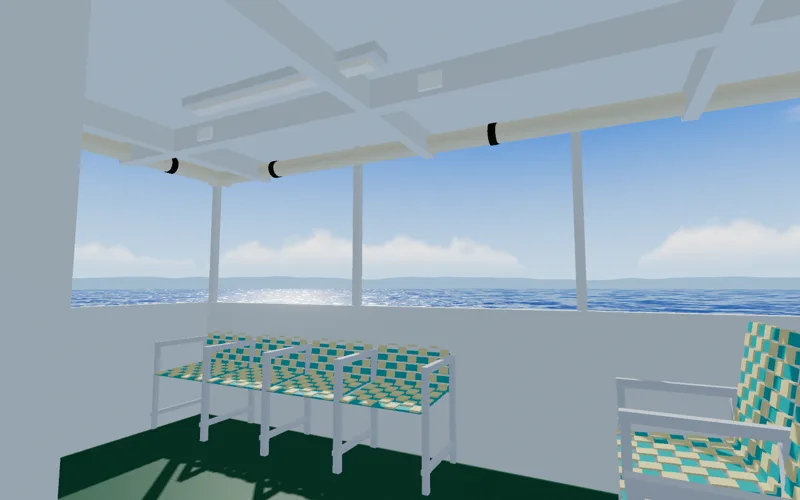
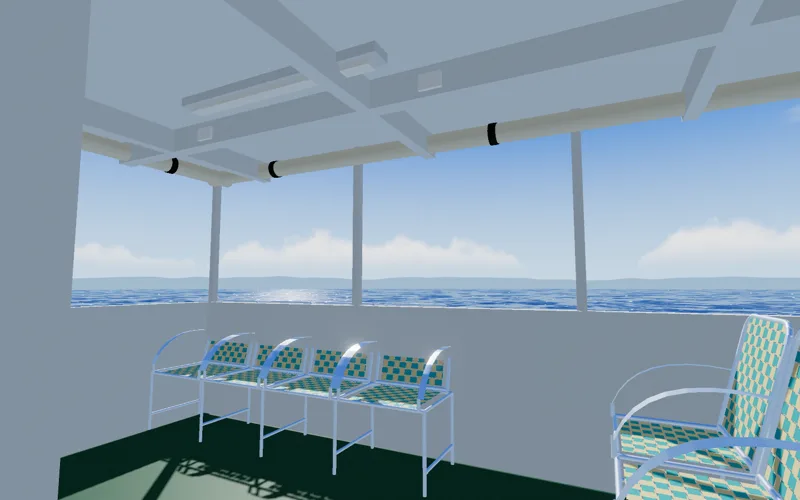
feat(crossing): woven chairs, warm dawn and dusk, sparkle glitter, sun reaching the deck
Greybox second pass before the S1 review: procedural woven chairs (14,952 tris,
shared geometry), the scene's own sun intensity curve, glitter as discrete
sparkles instead of a white sheet, refreshed evidence and wall thumbnail.

diff --git a/src/places/crossing/index.ts b/src/places/crossing/index.ts
@@ -25,7 +25,7 @@ float nz=fbm(vec2(atan(d.z,d.x)*26.,d.y*26.+3.));
 float cloud=smoothstep(0.,.07,d.y-base)*(1.-smoothstep(.55,1.,ee+(nz-.5)*.75))*step(.03,topH-base)*smoothstep(.0,.22,ee+.15);
 float lit=clamp(ee*.9+.25+(nz-.5)*.5,0.,1.);
 float sunward=pow(max(dot(d,uSun),0.),6.);
-vec3 dayCloud=mix(vec3(.55,.64,.80),vec3(1.1),lit)*uDay;
+vec3 dayCloud=mix(vec3(.55,.64,.80),vec3(1.1),lit)*uDay*mix(vec3(1.),uTint*1.3,clamp(uGlow*.5,0.,1.)*(.35+.65*smoothstep(-.3,.8,dot(d,uSun))));
 vec3 lowCloud=mix(col*.95,uHorizon*1.5*uTint,clamp(sunward*uGlow,0.,1.));
 vec3 cloudCol=mix(lowCloud,dayCloud,clamp(uDay*1.4-.2*uGlow,0.,1.));
 float c=clamp(cloud,0.,1.);
@@ -33,7 +33,8 @@ float c=clamp(cloud,0.,1.);
 float wisp=smoothstep(.62,.8,fbm(vec2(atan(d.z,d.x)*2.,d.y*14.)))*smoothstep(.2,.3,e)*(1.-smoothstep(.45,.6,e))*.22*uDay;
 col=mix(col,vec3(1.),wisp);
 col=mix(col,cloudCol,c*.96);
-col+=uTint*pow(max(dot(d,uSun),0.),16.)*uGlow*.5*(1.-uNight);
+float sd0=max(dot(d,uSun),0.);
+col+=uTint*uTint*(pow(sd0,3.)*.55*(1.-smoothstep(0.,.6,e))+pow(sd0,18.)*.8)*uGlow*(1.-uNight);
 // Island ridge under the cloud bank, open side to stern only (azimuth atan(z,x) -150..+25 deg).
 float az=atan(d.z,d.x);
 float ridge=.007+.011*n(vec2(az*7.,1.7))+.005*n(vec2(az*23.,4.1))+.006*smoothstep(.0,1.,n(vec2(az*2.4,8.)));
@@ -68,7 +69,7 @@ export async function prepareCrossing():Promise<PlaceFactory>{
 
   // Shadow camera wraps the deck only (about 4.6 x 8 m).
   const sun=new THREE.DirectionalLight('#ffffff',2);sun.castShadow=true;
-  sun.shadow.mapSize.set(2048,2048);sun.shadow.bias=-.0004;sun.shadow.normalBias=.03;
+  sun.shadow.mapSize.set(2048,2048);sun.shadow.bias=-.0004;sun.shadow.normalBias=.012;
   Object.assign(sun.shadow.camera,{left:-6.5,right:6.5,top:6.5,bottom:-6.5,near:1,far:60});
   sun.target.position.set(.1,1,1);root.add(sun,sun.target);
   const hemi=new THREE.HemisphereLight('#bcd0e6','#5d6e68',.4);root.add(hemi);
@@ -80,6 +81,13 @@ export async function prepareCrossing():Promise<PlaceFactory>{
   const background=new THREE.Color();scene.background=background;
   const requested=typeof location==='undefined'?null:new URLSearchParams(location.search).get('crossingView');
   const view=VIEWS[(requested==='a'||requested==='b'||requested==='c'?requested:'a') as CrossingView];
+  // Sky/sea environment for the aluminium (metalness .9 reads black without one). Rebuilt only when the sky colour moves, at most 5x/s.
+  const groundBounce={value:new THREE.Color(.2,.35,.6)};
+  const envScene=new THREE.Scene(),envDome=new THREE.Mesh(new THREE.SphereGeometry(1,24,12),new THREE.ShaderMaterial({side:THREE.BackSide,depthWrite:false,uniforms:{uHorizon:horizon,uZenith:zenith,uGround:groundBounce},
+   vertexShader:'varying vec3 d;void main(){d=position;gl_Position=projectionMatrix*modelViewMatrix*vec4(position,1.);}',
+   fragmentShader:'varying vec3 d;uniform vec3 uHorizon,uZenith,uGround;void main(){float e=normalize(d).y;vec3 up=mix(uHorizon,uZenith,smoothstep(0.,.6,e));vec3 down=mix(uHorizon*.6,uGround,smoothstep(0.,-.4,e));gl_FragColor=vec4(e>0.?up:down,1.);}'}));
+  envScene.add(envDome);
+  const pmrem=new THREE.PMREMGenerator(renderer),envKey=new THREE.Color(-1,-1,-1);let envTarget:THREE.WebGLRenderTarget|null=null,envAge=Infinity;
   const tmp=new THREE.Color(1,1,1);
   let disposed=false;
   return {position:[...view.position],target:[...view.target],cameraMode:'fixed-position',yawRange:Math.PI/10,
@@ -88,21 +96,26 @@ export async function prepareCrossing():Promise<PlaceFactory>{
     const light=crossingDaylight(state);
     time.value=elapsed;day.value=light.level*(1-.75*light.night);sunU.value.copy(light.sun);tint.value.copy(light.tint);direct.value=light.direct;
     horizon.value.copy(light.horizon);zenith.value.copy(light.zenith);background.copy(light.horizon);
-    skyUniforms.uGlow.value=.4+1.6*light.low;skyUniforms.uNight.value=light.night;
-    skyUniforms.uDay.value=light.level*(1-light.night)*(1-.7*light.low);skyUniforms.uTime.value=elapsed;
+    skyUniforms.uGlow.value=.15+2.4*light.low;skyUniforms.uNight.value=light.night;
+    skyUniforms.uDay.value=light.level*(1-light.night)*(1-.35*light.low);skyUniforms.uTime.value=elapsed;
     skyUniforms.uSunDisc.value.copy(light.sunTrue);skyUniforms.uSunDiscVis.value=light.sunUp*(1-light.night);
     sun.position.copy(sun.target.position).addScaledVector(light.sun,30);
-    sun.color.copy(light.tint);sun.intensity=2.2*light.direct*(state.beamStrength??1);
+    sun.color.copy(light.tint);sun.intensity=3.4*light.direct*(state.beamStrength??1);
     const lvl=light.level*(1-light.night*.85);
-    hemi.color.copy(light.horizon).lerp(tmp,.5);hemi.groundColor.setRGB(.42,.58,.82).lerp(light.tint,.2).multiplyScalar(lvl);hemi.intensity=.12+1.4*lvl;
-    bounce.intensity=.7*lvl;
+    hemi.color.setRGB(.62,.72,.96).lerp(light.horizon,.25).lerp(tmp,.15);hemi.groundColor.setRGB(.42,.58,.82).lerp(light.tint,.2).multiplyScalar(lvl);hemi.intensity=.12+1.1*lvl;
+    bounce.intensity=.6*lvl;
     graybox.setLamp(1.5*light.lamp);lamp.intensity=2.2*light.lamp;
     // Hull roll: two incommensurate periods (8.2 s and 5.1 s), under 0.5 degree each way; the world turns, the camera does not.
     world.rotation.z=.0060*Math.sin(elapsed*2*Math.PI/8.2)+.0027*Math.sin(elapsed*2*Math.PI/5.1+1);
+    groundBounce.value.setRGB(.2,.35,.6).lerp(light.tint,.25).multiplyScalar(lvl);
+    envAge+=Math.max(0,_dt);
+    if(envAge>=.2&&Math.abs(envKey.r-light.horizon.r)+Math.abs(envKey.g-light.horizon.g)+Math.abs(envKey.b-light.horizon.b)>.01){
+     const next=pmrem.fromScene(envScene,0,.1,10);envTarget?.dispose();envTarget=next;envKey.copy(light.horizon);envAge=0;graybox.alu.envMap=next.texture;graybox.alu.needsUpdate=true;
+    }
     renderer.shadowMap.enabled=true;
    },
    disturb(){},resetWater(){},
-   dispose(){if(disposed)return;disposed=true;graybox.dispose();disposeModelResources(collectModelResources(root),['geometries','materials','textures']);sun.shadow.map?.dispose();root.removeFromParent();renderer.shadowMap.enabled=oldShadow.enabled;renderer.shadowMap.type=oldShadow.type;if(scene.background===background)scene.background=null;},
+   dispose(){if(disposed)return;disposed=true;envTarget?.dispose();pmrem.dispose();envDome.geometry.dispose();(envDome.material as THREE.Material).dispose();graybox.dispose();disposeModelResources(collectModelResources(root),['geometries','materials','textures']);sun.shadow.map?.dispose();root.removeFromParent();renderer.shadowMap.enabled=oldShadow.enabled;renderer.shadowMap.type=oldShadow.type;if(scene.background===background)scene.background=null;},
   };
  };
  return factory;

diff --git a/src/places/crossing/Chairs.ts b/src/places/crossing/Chairs.ts
@@ -1,0 +1,94 @@
+import * as THREE from 'three';
+import {mergeGeometries} from 'three/examples/jsm/utils/BufferGeometryUtils.js';
+import {CHAIRS} from './Layout.ts';
+
+/**
+ * Woven ferry chairs, procedural. Chair frame (local, seat faces +Z, floor at y=0): 2.2 cm tube back frame leaning 15 degrees
+ * with rounded top corners, a wide curved aluminium armrest band per side; weave of 3.7 cm flat straps on a 4.6 cm pitch
+ * (vertical cream, horizontal teal) that alternate over/under by 2.5 mm per cell, with ~9 mm gaps. Rows share one base
+ * (rails + slim legs) and all chairs share the same merged geometry. Straps are double-sided planes (cheap, light passes the gaps).
+ */
+const R=.011,PITCH=.046,STRAP=.037,PITCH_ROW=.6,SEAT_Y=CHAIRS.seatH,LEAN=-.26,HALF_W=.27;
+const flat=(g:THREE.BufferGeometry)=>g.index?g.toNonIndexed():g;
+const tube=(a:THREE.Vector3,b:THREE.Vector3,r=R)=>{
+ const g=new THREE.CylinderGeometry(r,r,a.distanceTo(b),6,1,true);
+ g.applyMatrix4(new THREE.Matrix4().compose(a.clone().add(b).multiplyScalar(.5),new THREE.Quaternion().setFromUnitVectors(new THREE.Vector3(0,1,0),b.clone().sub(a).normalize()),new THREE.Vector3(1,1,1)));
+ return flat(g);
+};
+const v3=(x:number,y:number,z:number)=>new THREE.Vector3(x,y,z);
+
+function chairParts(){
+ const teal:THREE.BufferGeometry[]=[],cream:THREE.BufferGeometry[]=[],frame:THREE.BufferGeometry[]=[];
+ const backM=new THREE.Matrix4().makeTranslation(0,SEAT_Y,-.2).multiply(new THREE.Matrix4().makeRotationX(LEAN));
+ const L=.58; // back frame length along its lean
+ // Weave over/under: cell (i,j) puts the vertical strap in front when (i+j) is even, else behind (2.5 mm).
+ const weave=(cols:number,rows:number,origin:THREE.Vector2,m:THREE.Matrix4)=>{
+  for(let i=0;i<cols;i++)for(let j=0;j<rows;j++){
+   const cx=(i-(cols-1)/2)*PITCH,cy=origin.y+(j+.5)*PITCH,front=(i+j)%2===0?.0025:-.0025;
+   const vert=new THREE.PlaneGeometry(STRAP,PITCH);vert.translate(cx,cy,front);vert.applyMatrix4(m);cream.push(flat(vert));
+   const hor=new THREE.PlaneGeometry(PITCH,STRAP);hor.translate(cx,cy,-front);hor.applyMatrix4(m);teal.push(flat(hor));
+  }
+ };
+ weave(10,12,new THREE.Vector2(0,.035),backM);
+ // Seat weave lies flat at seat height: local plane XY -> XZ.
+ weave(10,10,new THREE.Vector2(0,-.23),new THREE.Matrix4().makeTranslation(0,SEAT_Y,0).multiply(new THREE.Matrix4().makeRotationX(-Math.PI/2)));
+ // Back frame: two uprights, rounded top corners (radius .08, 4 segments), top bar. Points in back-local (x, v along the lean).
+ const toWorld=(x:number,v:number)=>v3(x,v,0).applyMatrix4(backM);
+ for(const s of[-1,1])frame.push(tube(toWorld(s*HALF_W,0),toWorld(s*HALF_W,L-.08)));
+ // Rounded top as an explicit arc: centre (x=±(HALF_W-rc), v=top-rc).
+ for(const s of[-1,1]){
+  const rc=.08,cx=s*(HALF_W-rc),cv=L-rc;let prev=toWorld(s*HALF_W,cv);
+  for(let k=1;k<=4;k++){const a=k/4*Math.PI/2,p=toWorld(cx+s*rc*Math.cos(a),cv+rc*Math.sin(a));frame.push(tube(prev,p));prev=p;}
+ }
+ frame.push(tube(toWorld(-(HALF_W-.08),L),toWorld(HALF_W-.08,L)));
+ frame.push(tube(toWorld(-HALF_W,.02),toWorld(HALF_W,.02))); // lower back cross tube
+ // Armrest: wide band (4 cm, bright aluminium), a quadratic arc from the back frame sideways-up to the seat front edge.
+ for(const s of[-1,1]){
+  const p0=toWorld(0,.3),p2=v3(0,SEAT_Y+.07,.26),p1=v3(0,p0.y+.07,.14);
+  let prev=p0.clone();
+  for(let k=1;k<=8;k++){
+   const t=k/8,u=1-t,p=v3(0,u*u*p0.y+2*u*t*p1.y+t*t*p2.y,u*u*p0.z+2*u*t*p1.z+t*t*p2.z),d=p.clone().sub(prev),len=d.length();d.normalize();
+   const seg=new THREE.PlaneGeometry(.04,len+.004);
+   seg.applyMatrix4(new THREE.Matrix4().makeBasis(v3(1,0,0),d,v3(1,0,0).cross(d)).setPosition(prev.clone().add(p).multiplyScalar(.5).setX(s*(HALF_W+.012))));
+   frame.push(flat(seg));prev=p;
+  }
+  frame.push(tube(v3(s*HALF_W,SEAT_Y,.26),v3(s*HALF_W,SEAT_Y+.07,.26))); // armrest end post
+ }
+ const merge=(a:THREE.BufferGeometry[])=>{const g=mergeGeometries(a)!;a.forEach(x=>x.dispose());return g;};
+ return {teal:merge(teal),cream:merge(cream),frame:merge(frame)};
+}
+
+/** Row base: continuous front and back seat rails plus slim leg pairs between chairs (n chairs, pitch .6, local x along the row). */
+function rowBase(n:number){
+ const g:THREE.BufferGeometry[]=[],half=n*PITCH_ROW/2;
+ g.push(tube(v3(-half,SEAT_Y,.25),v3(half,SEAT_Y,.25)),tube(v3(-half,SEAT_Y,-.21),v3(half,SEAT_Y,-.21)));
+ for(let k=0;k<=n;k++){
+  const x=-half+k*PITCH_ROW;
+  for(const z of[.25,-.21])g.push(tube(v3(x,0,z),v3(x,SEAT_Y,z)));
+  g.push(tube(v3(x,.12,.25),v3(x,.12,-.21)),tube(v3(x,SEAT_Y,.25),v3(x,SEAT_Y,-.21)));
+ }
+ const m=mergeGeometries(g)!;g.forEach(x=>x.dispose());return m;
+}
+
+export function createChairs(){
+ const group=new THREE.Group();group.name='crossing-chairs';
+ const tealMat=new THREE.MeshStandardMaterial({color:'#3caaaf',roughness:.55,side:THREE.DoubleSide});
+ const creamMat=new THREE.MeshStandardMaterial({color:'#decd96',roughness:.55,side:THREE.DoubleSide});
+ const alu=new THREE.MeshStandardMaterial({color:'#d8dce0',metalness:.9,roughness:.35,side:THREE.DoubleSide});
+ const parts=chairParts(),bases=new Map<number,THREE.BufferGeometry>();
+ let tris=0;
+ const count=(g:THREE.BufferGeometry)=>(g.index?g.index.count:g.attributes.position.count)/3;
+ const row=(name:string,n:number,x:number,z:number,yaw:number)=>{
+  if(!bases.has(n))bases.set(n,rowBase(n));
+  const r=new THREE.Group();r.name=name;r.position.set(x,0,z);r.rotation.y=yaw;
+  const mk=(geo:THREE.BufferGeometry,m:THREE.Material,px=0)=>{const mesh=new THREE.Mesh(geo,m);mesh.position.x=px;mesh.castShadow=true;mesh.receiveShadow=true;r.add(mesh);tris+=count(geo);};
+  mk(bases.get(n)!,alu);
+  for(let i=0;i<n;i++){const px=(i+.5-n/2)*PITCH_ROW;mk(parts.teal,tealMat,px);mk(parts.cream,creamMat,px);mk(parts.frame,alu,px);}
+  group.add(r);
+ };
+ // Wall row: local x runs along +Z with yaw -90 degrees; the stern rows run along -X with yaw 180.
+ row('chairs-wall',CHAIRS.wallRowZ.length,CHAIRS.wallRowX,(CHAIRS.wallRowZ[0]+CHAIRS.wallRowZ[CHAIRS.wallRowZ.length-1])/2,-Math.PI/2);
+ const sx=(CHAIRS.sternRowsX[0]+CHAIRS.sternRowsX[CHAIRS.sternRowsX.length-1])/2;
+ CHAIRS.sternRowsZ.forEach((z,i)=>row(`chairs-stern-${i}`,CHAIRS.sternRowsX.length,sx,z,Math.PI));
+ return {group,alu,triangles:tris,geometries:[...Object.values(parts),...bases.values()],materials:[tealMat,creamMat,alu]};
+}

diff --git a/src/places/crossing/Daylight.ts b/src/places/crossing/Daylight.ts
@@ -8,7 +8,7 @@ const smooth=THREE.MathUtils.smoothstep,DEG=Math.PI/180;
  * azimuth is atan2(z,x) in the deck frame (0 = +X open side, -90 = stern -Z, +90 = bow +Z).
  * Noon is the reference photo: sun on the open side, behind the stern, ~45° up.
  */
-const SUN_KEYS=[[0,-70,-30],[5.5,40,-1],[6.5,35,11],[9,15,30],[12,-40.9,45],[14.5,-50,36],[17.5,-60,8],[18.5,-66,-1],[24,-70,-30]] as const;
+const SUN_KEYS=[[0,-70,-30],[5.5,40,-1],[6.5,35,11],[9,15,30],[12,-40.9,45],[14.5,-50,36],[17.5,-60,8],[18.3,-63,3],[19.2,-67,-1.5],[24,-70,-30]] as const;
 /** Moon (hour+24 before noon): rises astern where the sun set, crosses over the open side, sets toward the bow where the sun rises, so the night-to-day handover never swings the light. At 23:00 a full moon over the open side, slightly astern and lower than the noon sun so night light reads differently. */
 const MOON_KEYS=[[12,40,-40],[18,-66,-2],[20,-50,15],[23,-15,30],[26,10,25],[29.5,40,0],[33,40,-35],[36,40,-40]] as const;
 
@@ -26,6 +26,13 @@ export const crossingMoonDirection=(hour:number,out?:THREE.Vector3)=>{const h=wr
 
 /** Spherical blend: a plain lerp of near-opposite directions swings through the middle too fast. */
 const slerp=(a:THREE.Vector3,b:THREE.Vector3,t:number)=>{const w=Math.acos(THREE.MathUtils.clamp(a.dot(b),-1,1)),s=Math.sin(w);if(s<1e-4)return a.clone();return a.clone().multiplyScalar(Math.sin((1-t)*w)/s).addScaledVector(b,Math.sin(t*w)/s).normalize();};
+/** Sun strength by hour: weak right at sunrise/sunset, near full for most of the day. */
+const POWER_KEYS=[[5.6,0],[6.5,.75],[9,.92],[12,1],[14.5,.96],[17.5,.9],[18.3,.7],[19.2,.2]] as const;
+function sunPower(h:number){
+ if(h<=POWER_KEYS[0][0]||h>=POWER_KEYS[POWER_KEYS.length-1][0])return h<=POWER_KEYS[0][0]?0:POWER_KEYS[POWER_KEYS.length-1][1];
+ let i=0;while(POWER_KEYS[i+1][0]<=h)i++;
+ const a=POWER_KEYS[i],b=POWER_KEYS[i+1],x=(h-a[0])/(b[0]-a[0]);return a[1]+(b[1]-a[1])*x*x*(3-2*x);
+}
 const MIN_SIN=Math.sin(3*DEG),MIN_MOON_SIN=Math.sin(10*DEG);
 const lift=(v:THREE.Vector3,minSin:number)=>{if(v.y>=minSin)return v;const h=Math.hypot(v.x,v.z)||1,c=Math.sqrt(1-minSin*minSin);return v.set(v.x/h*c,minSin,v.z/h*c);};
 
@@ -36,20 +43,24 @@ const lift=(v:THREE.Vector3,minSin:number)=>{if(v.y>=minSin)return v;const h=Mat
 export function crossingDaylight(state:{hour?:number;intensity?:number}|SceneState){
  const hour=wrap(state.hour??12);
  const sunTrue=crossingSunDirection(hour),moonTrue=crossingMoonDirection(hour);
- const sunUp=smooth(sunTrue.y,Math.sin(-.5*DEG),Math.sin(4*DEG)),moonUp=smooth(moonTrue.y,Math.sin(-1*DEG),Math.sin(8*DEG));
- const solar=smooth(hour,5.6,7)*(1-smooth(hour,17.6,19))*sunUp;
+ const sunUp=smooth(sunTrue.y,Math.sin(-1*DEG),Math.sin(7*DEG)),moonUp=smooth(moonTrue.y,Math.sin(-1*DEG),Math.sin(8*DEG));
+ const solar=sunUp;
  const night=hour<12?1-smooth(hour,4,5.6):smooth(hour,18.6,20.5);
- const level=.10+.90*THREE.MathUtils.clamp(state.intensity??1,0,1);
- // low: 1 near the horizon (dawn and dusk), 0 high sun; warms the tint and the sky.
- const low=solar*Math.pow(1-Math.sin(THREE.MathUtils.clamp(Math.asin(sunTrue.y)/(55*DEG),0,1)*Math.PI/2),1.6);
- const tint=new THREE.Color(1,.97,.92).lerp(new THREE.Color(1,.58,.30),low*.95);
+ // Own strength curve (the shared time-of-day table is too dim at dawn and dusk to carry warm light into the deck).
+ const level=.10+.90*sunPower(hour);
+ // low: 1 near the horizon, 0 with a high sun; warms tint and sky. am: morning (pinker, paler) vs evening (deeper gold).
+ const low=solar*Math.pow(1-THREE.MathUtils.clamp(Math.asin(sunTrue.y)/(34*DEG),0,1),1.25);
+ const am=1-smooth(hour,9,13);
+ const warm=new THREE.Color(1,.50,.22).lerp(new THREE.Color(1,.66,.36),am);
+ const tint=new THREE.Color(1,.97,.92).lerp(warm,Math.min(1,low*1.15));
  const sun=lift(sunTrue.clone(),MIN_SIN),moon=lift(moonTrue.clone(),MIN_MOON_SIN);
  const lightDir=slerp(sun,moon,night);
  tint.lerp(new THREE.Color(.66,.76,.95),night);
- const skyLevel=THREE.MathUtils.lerp(.45,1,level);
- // Saturated day blue (reference photo): clean deep zenith, paler horizon.
- const horizon=new THREE.Color(.46,.70,.97).lerp(new THREE.Color(1,.60,.36),low*.9).multiplyScalar(skyLevel);
- const zenith=new THREE.Color(.03,.20,.78).lerp(new THREE.Color(.22,.28,.60),low*.6).multiplyScalar(skyLevel);
+ const skyLevel=THREE.MathUtils.lerp(.55,1,level);
+ // Day blue (reference photo): clean deep zenith, paler horizon. Low sun turns the horizon gold and the zenith blue-violet;
+ // the sky shader adds the gold glow toward the sun itself.
+ const horizon=new THREE.Color(.46,.70,.97).lerp(new THREE.Color(1,.56,.30).lerp(new THREE.Color(1,.74,.46),am),Math.min(1,low*1.35)).multiplyScalar(skyLevel);
+ const zenith=new THREE.Color(.03,.20,.78).lerp(new THREE.Color(.16,.16,.60).lerp(new THREE.Color(.34,.38,.72),am),Math.min(1,low*(.9-.4*am))).multiplyScalar(skyLevel);
  horizon.lerp(new THREE.Color(.04,.055,.10),night);zenith.lerp(new THREE.Color(.015,.025,.06),night);
  const lamp=Math.max(smooth(hour,18.3,19.5),1-smooth(hour,5,6));
  const direct=solar*level+.14*night*moonUp;

diff --git a/src/places/crossing/Graybox.ts b/src/places/crossing/Graybox.ts
@@ -1,33 +1,6 @@
 import * as THREE from 'three';
-import {mergeGeometries} from 'three/examples/jsm/utils/BufferGeometryUtils.js';
+import {createChairs} from './Chairs.ts';
 import {CHAIRS,DECK,DOOR,LAMP,POCKET,POST_Z,RAIL,ROOF,STAIR} from './Layout.ts';
-
-/** Chair template, local frame: origin at the floor under the seat centre, seat faces +Z, back at -Z. Flat colours only.
- * Weave: full-width teal strips with small gaps, cream blocks over a checker of cells; both faces read the same. */
-function chairGeometries(){
- const w=CHAIRS.width,seatY=CHAIRS.seatH;
- const teal:THREE.BufferGeometry[]=[],cream:THREE.BufferGeometry[]=[],metal:THREE.BufferGeometry[]=[];
- const panel=(cols:number,rows:number,depth:number,m:THREE.Matrix4)=>{
-  const gx=w/cols,gy=depth/rows;
-  for(let j=0;j<rows;j++){
-   const y=-depth/2+gy*(j+.5);
-   const t=new THREE.BoxGeometry(w,gy*.78,.012);t.translate(0,y,0);t.applyMatrix4(m);teal.push(t);
-   for(let i=0;i<cols;i++)if((i+j)%2===0){const c=new THREE.BoxGeometry(gx*.82,gy*.9,.012);c.translate(-w/2+gx*(i+.5),y,.007);c.applyMatrix4(m);cream.push(c);const c2=c.clone();c2.translate(0,0,-.014);cream.push(c2);}
-  }
- };
- // Back: leans 10 degrees (top toward -Z). Seat: slight tilt up toward the back.
- panel(7,10,.56,new THREE.Matrix4().makeTranslation(0,seatY+.27,-.26).multiply(new THREE.Matrix4().makeRotationX(-.17)));
- panel(7,7,.5,new THREE.Matrix4().makeTranslation(0,seatY,0).multiply(new THREE.Matrix4().makeRotationX(-Math.PI/2+.06)));
- // Aluminium: armrest bar with two legs per side, plus a floor rail.
- for(const s of[-1,1]){
-  const x=s*(w/2+.02);
-  const bar=new THREE.BoxGeometry(.035,.04,.52);bar.translate(x,seatY+.22,-.02);metal.push(bar);
-  for(const z of[-.24,.22]){const leg=new THREE.BoxGeometry(.035,seatY+.22,.035);leg.translate(x,(seatY+.22)/2,z);metal.push(leg);}
-  const rail=new THREE.BoxGeometry(.035,.03,.5);rail.translate(x,.12,0);metal.push(rail);
- }
- const merge=(a:THREE.BufferGeometry[])=>{const g=mergeGeometries(a.map(x=>x.index?x.toNonIndexed():x))!;a.forEach(x=>x.dispose());return g;};
- return {teal:merge(teal),cream:merge(cream),metal:merge(metal)};
-}
 
 /**
  * S1 graybox: stern corner of a ferry's open upper deck. Flat materials only; no textures.
@@ -45,9 +18,7 @@ export function createGraybox(){
  const pipeMat=new THREE.MeshStandardMaterial({color:'#e8ebe8',roughness:.5,metalness:.1});
  const lampBody=new THREE.MeshStandardMaterial({color:'#d8dbd6',roughness:.6});
  const tubeMat=new THREE.MeshStandardMaterial({color:'#f4f1e6',emissive:new THREE.Color('#fff1d6'),emissiveIntensity:0,roughness:.4});
- const tealMat=new THREE.MeshStandardMaterial({color:'#2aa8a6',roughness:.55});
- const creamMat=new THREE.MeshStandardMaterial({color:'#d9cc98',roughness:.55});
- const alu=new THREE.MeshStandardMaterial({color:'#d4d8dc',roughness:.3,metalness:.12});
+ const chairs=createChairs(),alu=chairs.alu;
 
  const add=(name:string,g:THREE.BufferGeometry,m:THREE.Material,pos:[number,number,number],cast=true)=>{const mesh=new THREE.Mesh(g,m);mesh.name=name;mesh.position.set(...pos);mesh.castShadow=cast;mesh.receiveShadow=true;group.add(mesh);return mesh;};
  /** Box from min/max corners. */
@@ -115,19 +86,11 @@ export function createGraybox(){
  hr('stair-aft',[STAIR.xMin,STAIR.zMin],[STAIR.xMax,STAIR.zMin]);
  hr('stair-fwd',[STAIR.xMin,STAIR.zMax],[STAIR.xMax,STAIR.zMax]);
 
- // Woven chairs: shared template geometries; 4 along the open-side wall facing -X, 3 rows of 3 facing the stern.
- const ch=chairGeometries();
- const chair=(name:string,x:number,z:number,yaw:number)=>{
-  const g=new THREE.Group();g.name=name;g.position.set(x,0,z);g.rotation.y=yaw;
-  for(const [geo,m] of [[ch.teal,tealMat],[ch.cream,creamMat],[ch.metal,alu]] as const){const mesh=new THREE.Mesh(geo,m);mesh.castShadow=true;mesh.receiveShadow=true;g.add(mesh);}
-  group.add(g);
- };
- CHAIRS.wallRowZ.forEach((z,i)=>chair(`chair-wall-${i}`,CHAIRS.wallRowX,z,-Math.PI/2));
- CHAIRS.sternRowsZ.forEach((z,r)=>CHAIRS.sternRowsX.forEach((x,i)=>chair(`chair-stern-${r}-${i}`,x,z,Math.PI)));
+ group.add(chairs.group);
 
  const geometries=new Set<THREE.BufferGeometry>(),materials=new Set<THREE.Material>();
  group.traverse(o=>{if(o instanceof THREE.Mesh){geometries.add(o.geometry);materials.add(o.material as THREE.Material);}});
- return {group,tubeMat,lampPosition:new THREE.Vector3(LAMP.x,LAMP.y-.12,LAMP.z),
+ return {group,tubeMat,alu,chairTriangles:chairs.triangles,lampPosition:new THREE.Vector3(LAMP.x,LAMP.y-.12,LAMP.z),
   /** Sets the tube's glow (HDR values feed bloom). */
   setLamp(emissiveIntensity:number){tubeMat.emissiveIntensity=emissiveIntensity;},
   dispose(){geometries.forEach(g=>g.dispose());materials.forEach(m=>m.dispose());group.removeFromParent();}};

diff --git a/src/places/crossing/Sea.ts b/src/places/crossing/Sea.ts
@@ -17,6 +17,13 @@ export function createCrossingSeaMaterial(time:{value:number},day:{value:number}
  float h(vec2 q){return fract(sin(dot(q,vec2(127.1,311.7)))*43758.5453);}
  float n(vec2 q){vec2 i=floor(q),f=fract(q);f=f*f*(3.-2.*f);return mix(mix(h(i),h(i+vec2(1,0)),f.x),mix(h(i+vec2(0,1)),h(i+1.),f.x),f.y);}
  float fbm(vec2 q){float v=0.,a=.5;for(int i=0;i<4;i++){v+=a*n(q);q=q*2.1+7.3;a*=.5;}return v;}
+ // One dot per active cell: random cell, offset and twinkle phase; radius about a quarter of the cell.
+ float sparkle(vec2 w,float k,float thresh,float t){
+  vec2 g=w*k,id=floor(g),f=fract(g)-.5;float r=h(id);
+  vec2 off=(vec2(h(id+3.1),h(id+7.7))-.5)*.5;
+  float on=step(thresh,r),tw=.5+.5*sin(t*(3.+6.*h(id+1.3))+6.2832*h(id+9.));
+  return on*smoothstep(.34,.0,length(f-off))*tw*tw;
+ }
  vec2 vn(vec2 q){return vec2(n(q),n(q+17.3))-.5;}
  mat2 rot(float a){float c=cos(a),s=sin(a);return mat2(c,-s,s,c);}
  void main(){
@@ -40,19 +47,17 @@ export function createCrossingSeaMaterial(time:{value:number},day:{value:number}
  vec3 far=mix(vec3(.012,.07,.27),vec3(.03,.13,.40),shade);
  vec3 water=mix(near,far,smoothstep(20.,400.,dist))*uDay;
  vec3 col=mix(water,sky,fresnel);
- // Glitter path toward the light. A real specular lobe cannot reach the horizon for a 45-degree sun,
- // so the path is placed by azimuth: a band along the light's bearing, wide near, thin far, filled with bright specks.
+ // Glitter: point sparkles, not a lobe. The path lies along the light's bearing (a 45-degree sun cannot reflect to the
+ // horizon from real slopes, so it is placed by azimuth): wide near, thin far. Near sparkles are big and sparse, far ones
+ // fine and dense; the density rises toward the axis and only the axis centre joins into a band. Each dot twinkles.
  vec2 toP=p.xz-cameraPosition.xz;vec2 hd=normalize(toP),sd=normalize(uSun.xz);
  float ang=acos(clamp(dot(hd,sd),-1.,1.));
- float sig=.09+1.0*view.y;
- float path=exp(-pow(ang/sig,2.));
- float wide=exp(-pow(ang/(sig*2.6),2.));
- float sp1=smoothstep(.80,.97,n(w3*2.2))*(1.-smoothstep(30.,110.,dist));
- float sp2=smoothstep(.78,.96,n(w2*.9+3.))*(1.-smoothstep(120.,320.,dist));
- float sp3=smoothstep(.74,.95,n(w1*.38+9.));
- float speck=sp1*1.2+sp2*1.0+sp3*.9;
- float sheen=pow(max(dot(normal,normalize(view+uSun)),0.),40.);
- float glint=path*(speck*9.+.5)+wide*speck*2.2+sheen*.6;
+ float sig=.11+.5*view.y;
+ float axis=exp(-pow(ang/sig,2.));
+ float wA=1.-smoothstep(25.,90.,dist),wB=smoothstep(15.,50.,dist)*(1.-smoothstep(160.,380.,dist)),wC=smoothstep(110.,260.,dist);
+ float spark=wA*sparkle(w3,3.,mix(.99,.86,axis),t)+wB*sparkle(w2,1.15,mix(.98,.80,axis),t)+wC*sparkle(w1,.38,mix(.97,.72,axis),t);
+ float band=pow(axis,3.)*smoothstep(80.,260.,dist)*.5;
+ float glint=spark*9.*(.35+.65*axis)+band;
  col+=glint*uDirect*uTint*(.5+.5*uDay);
  // Wake: dense white foam from the stern aft, widening and thinning, swirled edges, scrolling with the water.
  float d=max(-p.z+(${WAKE.startZ.toFixed(1)}),0.);

diff --git a/src/places/crossing/Layout.ts b/src/places/crossing/Layout.ts
@@ -13,7 +13,7 @@ export const POST_Z=[-3.0,-1.4,.2,1.8,3.4,5.0] as const;
 export const STAIR={xMin:-2.2,xMax:-.6,zMin:.9,zMax:3.1} as const;
 export const DOOR={z:-1.7,w:.9,h:2.0} as const;
 /** Chairs: a row of 4 along the open-side wall facing -X, rows of 3 facing the stern. */
-export const CHAIRS={wallRowZ:[-2.7,-2.1,-1.5,-.9],wallRowX:2.05,sternRowsZ:[.6,1.45,2.3],sternRowsX:[.5,1.1,1.7],width:.55,seatH:.45} as const;
+export const CHAIRS={wallRowZ:[-2.7,-2.1,-1.5,-.9],wallRowX:2.05,sternRowsZ:[.6,1.45,2.3],sternRowsX:[.7,1.3,1.9],width:.55,seatH:.45} as const;
 export const LAMP={x:1.2,y:2.2,z:-1.2,len:1.2} as const;
 
 /** Standpoints; a is the default. A~3393 (seated, open side + stern corner), B~3400 (standing wide, door left, glitter right), C~3395 (square to the stern, wake). */
